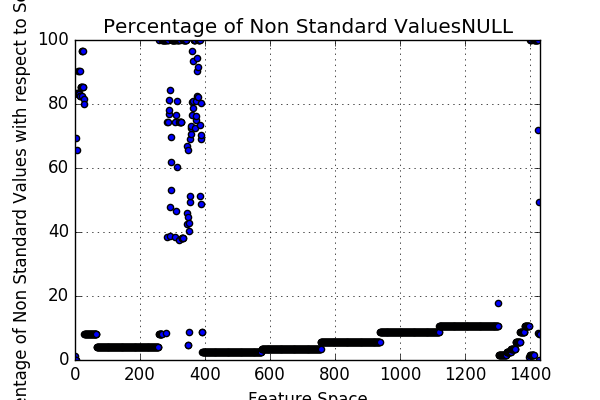
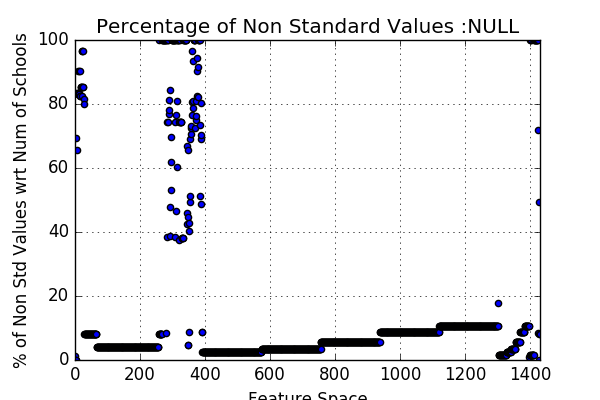
minor changes

Changed region(s): [[0.0, 0.06, 0.06, 1.0], [0.15, 0.03, 0.87, 0.09], [0.0, 0.0, 0.06, 0.03]]

diff --git a/Code/create_stats.py b/Code/create_stats.py
@@ -82,9 +82,9 @@ def plot_line_graph(data_array, file_name):
             string = "Privacy Suppressed"
         # This plots the data
         plt.grid(True)
-        plt.ylabel("Percentage of Non Standard Values with respect to School")
+        plt.ylabel("% of Non Std Values wrt Num of Schools")
         plt.xlabel("Feature Space")
-        plt.title("Percentage of Non Standard Values" + string)
+        plt.title("Percentage of Non Standard Values :" + string)
         plt.xlim(0, len(data_array))                                                                                                                                                                                                                      
         plt.ylim(0, 100)
 
